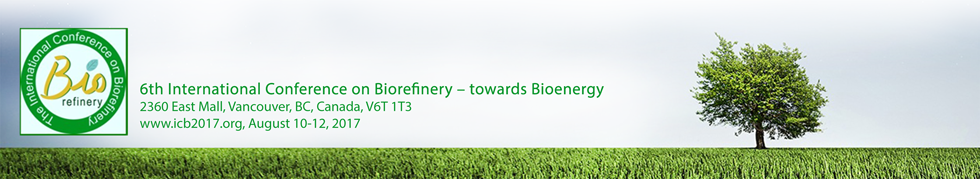
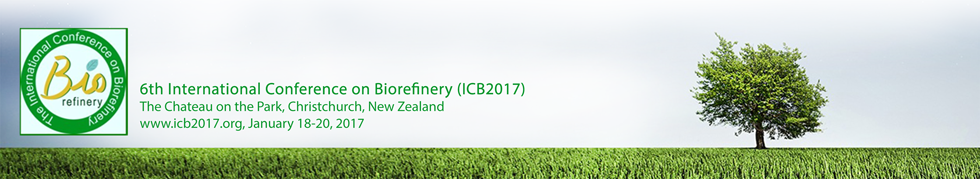
modify part pages

Changed region(s): [[0.1224, 0.5587, 0.4592, 0.7263], [0.4592, 0.4469, 0.6122, 0.5587]]

diff --git a/Application/Home/View/Index/scientific.html b/Application/Home/View/Index/scientific.html
@@ -1,0 +1,85 @@
+<!DOCTYPE html>
+<html>
+
+	<include file="./Application/Home/View/Public/common/head.html" />
+
+	<body>
+		<div id="wrapper">
+			<div id="header">
+				
+			</div>
+			<div id="main">
+				<div id="left">
+					<include file="./Application/Home/View/Public/common/menu.html" />
+				</div>
+				<div id="right">
+					<div class="content">
+						<h3>SCIENTIFIC COMMITTEE</h3>
+							<ul>
+								<li><b>Franco Berruti</b> – Western University, Canada</li>
+								<li><b>Margaret L Britz</b> – Queensland University of Technology, Australia</li>
+								<li><b>Zhuan Cao</b> – Tsinghua University, China</li>
+								<li><b>Jamal Chaouki</b> – Ecole Polytechnique de Montreal, Canada</li>
+							
+								<li><b>Hanping Chen</b> – Huazhong University of Science & Technology, China</li>
+								<li><b>Shulin Chen</b> – Washington State University, USA</li>
+								<li><b>Rupert Craggs</b> – National Institute of Water and Atmospheric Research (NIWA), Hamilton, New Zealand</li>
+								<li><b>Yusuf Chisti</b> – Massey University, New Zealand</li>
+								<li><b>Ajay Dalai</b> – University of saskatchewan, Canada</li>
+								<li><b>Michael K. Danquah</b> – Curtin University Sarawak, Malaysia</li>
+								<li><b>John R. Grace</b> – University of British Columbia</li>
+								<li><b>Sai Gu</b> – Cranfield University, UK</li>
+								<li><b>Jan Christer Janson</b> – Uppsala University, Sweden</li>
+								<li><b>Brian Cox</b> – Bioenergy Association New Zealand (BANZ), New Zealand</li>
+								<li><b>Mohammed Farid</b> – University of Auckland, Auckland, New Zealand</li>
+								<li><b>Lixin Huang</b> – Institute of Chemical Industry of Forest Products, China Academy of Forestry, Nanjing, China</li>
+								<li><b>Yifan Han</b> – Zhengzhou University, Zhengzhou, China</li>
+								<li><b>Jianchun Jiang</b> – Institute of Chemical Industry of Forest Products, China Academy of Forestry, Nanjing, China</li>
+								<li><b>Nirmal Joshee</b> – Fort Valley State University, USA</li>
+								<li><b>Yoon Mo Koo</b> – Inha University, Korea</li>
+								<li><b>Robert Legros</b> – Ecole Polytechnique de Montreal, Canada</li>
+								<li><b>Bin Liang</b> – Sichuan University, China</li>
+								<li><b>Tana Levi</b> – CRL Energy Ltd., Lower Hutt, Wellington, New Zealand</li>
+								<li><b>Gang Li</b> – Hebei University of Technology, Tianjin, China</li>
+								<li><b>Lu Lin</b> – Xiamen University, China</li>
+								<li><b>Longlong Ma</b> – Guangzhou Institute of Energy Conversion, Chinese Academy of Sciences, China)</li>
+								<li><b>Yanhe Ma</b> – Institute of Microbiology, Chinese Academy of Sciences, China</li>
+								<li><b>Murray McCurdy</b> – CRL Energy Ltd., Lower Hutt, Wellington, New Zealand</li>
+								<li><b>Brendon Miller</b> – Jembec Consultant, Christchurch, New Zealand</li>
+								<li><b>Yinbo Qu</b> – Shandong University, China</li>
+								<li><b>Shri Ramaswamy</b> – University of Minnesota, USA</li>
+								<li><b>Wim Soetaert</b> – Ghent University, Belgium</li>
+								<li><b>Runchang Sun</b> – Beijing Forestry University, China</li>
+								<li><b>Zhifa Sun</b> – University of Otago, New Zealand</li>
+								<li><b>Kirk Torr</b> – Scion Research, Rotorua, New Zealand</li>
+								<li><b>Noritatsu Tsubaki</b> – Noritatsu Tsubaki</li>
+								<li><b>Rien Visser</b> – University of Canterbury, New Zealand</li>
+								<li><b>Kurt Wagemann</b> – DECHEMA e. V., Germany</li>
+								<li><b>Chihwa Wang</b> – National University of Singapore, Singapore</li>
+								<li><b>Mengjie Wang</b> – Chinese Academy of Agriculture Engineering, China</li>
+								<li><b>Mo Xian</b> – Qingdao Institute of Biomass Energy and Biomaterials, China Academy of Science, Qingdao, China</li>
+								<li><b>Rui Xiao</b> – Southeast University, China</li>
+								<li><b>Charles Xu</b> – University of Western Ontario, Ontario, Canada</li>
+								<li><b>Guangwen Xu</b> – Institute of Process Engineering, Chinese Academy of Sciences, China</li>
+								<li><b>Xuebing Xu</b> – Technical University of Denmark, Denmark</li>
+								<li><b>Shangtian Yang</b> – Ohio State University, USA</li>
+								<li><b>Hao Ying</b> – Institute of Chemical Industry of Forest Products, China Academy of Forestry, Nanjing, China</li>
+								<li><b>Alex Yip</b> – University of Canterbury, New Zealand</li>
+								<li><b>Yingjin Yuan</b> – Tianjing University, China</li>
+								<li><b>Ruihong Zhang</b> – University of California, Davis, USA</li>
+								<li><b>Ruiqin Zhang</b> – Zhengzhou University, Zhengzhou, China</li>
+								<li><b>Xueming Zhao</b> – University of Illinois, USA</li>
+								<li><b>Ying Zheng</b> – University of New Brunswick, Canada</li>
+								<li><b>Junyong Zhu</b> – Forest Products Lab, USA</li>
+							</ul>
+					</div>
+				</div>
+			</div>
+			<div id="footer">
+				
+			</div>
+		</div>
+		<include file="./Application/Home/View/Public/common/script.html" />
+	</body>
+
+</html>

diff --git a/Application/Home/View/Index/organizing.html b/Application/Home/View/Index/organizing.html
@@ -1,0 +1,59 @@
+<!DOCTYPE html>
+<html>
+
+	<include file="./Application/Home/View/Public/common/head.html" />
+
+	<body>
+		<div id="wrapper">
+			<div id="header">
+				
+			</div>
+			<div id="main">
+				<div id="left">
+					<include file="./Application/Home/View/Public/common/menu.html" />
+				</div>
+				<div id="right">
+					<div class="content">
+						<h3>ORGANIZING COMMITTEE</h3>
+						<h4>Chairmen</h4>
+							<ul>
+								<li><b>Shusheng Pang</b> – University of Canterbury, New Zealand</li>
+								<li><b>Jason Zhang</b> – University of Ottawa, Canada</li>
+								<li><b>Xu Zhang</b> – Beijing University of Chemical Technology, China</li>
+							</ul>
+						<h4>Members</h4>
+							<ul>
+								<li><b>Stefan Kaluza</b> – Fraunhofer Institute, Germany</li>
+								<li><b>Chang Soo Kim</b> – Korea Institute of Science and Technology, Korea</li>
+								<li><b>Guangqing Liu</b> – Beijing University of Chemical Technologies, China</li>
+								<li><b>Shijie Liu</b> – State University of New York ESF, USA</li>
+								<li><b>Atsushi Tsutsumi</b> – University of Tokyo, Japan</li>
+								<li><b>Xu Zhang</b> – Beijing University of Chemical Technologies, China</li>
+								<li><b>Yip Alex</b> – University of Canterbury, New Zealand</li>
+								<li><b>Matt Watson</b> – University of Canterbury, New Zealand</li>
+								<li><b>Aaron Marshall</b> – University of Canterbury, New Zealand</li>
+								<li><b>Gabriel Visnovsky</b> – University of Canterbury, New Zealand</li>
+							</ul>
+						<h4>Secretariats</h4>
+							<ul>
+								<li><b>Jingge Li</b> – University of Canterbury, New Zealand</li>
+								<li><b>Ranee Hearst</b> – University of Canterbury, New Zealand</li>
+								<li><b>Holly Hutt</b> – University of Canterbury, New Zealand</li>
+								<li><b>Yanjie Wang</b> – University of Canterbury, New Zealand</li>
+								<li><b>Simon Zhang</b> – University of Canterbury, New Zealand</li>
+								<li><b>Xin Xing</b> – University of Canterbury, New Zealand</li>
+								<li><b>Cheng Li</b> – University of Canterbury, New Zealand</li>
+								<li><b>Gaetano Dedual</b> – University of Canterbury, New Zealand</li>
+								<li><b>Fazly Abdul Patah</b> – University of Canterbury, New Zealand</li>
+							</ul>
+					</div>
+				</div>
+			</div>
+			<div id="footer">
+				
+			</div>
+		</div>
+		<include file="./Application/Home/View/Public/common/script.html" />
+	</body>
+
+</html>

diff --git a/Application/Home/View/Index/advisory.html b/Application/Home/View/Index/advisory.html
@@ -1,0 +1,53 @@
+<!DOCTYPE html>
+<html>
+
+	<include file="./Application/Home/View/Public/common/head.html" />
+
+	<body>
+		<div id="wrapper">
+			<div id="header">
+				
+			</div>
+			<div id="main">
+				<div id="left">
+					<include file="./Application/Home/View/Public/common/menu.html" />
+				</div>
+				<div id="right">
+					<div class="content">
+						<h3>SPEAKERS AND SESSION CHAIRS AT ICB-6</h3>
+						<h4>Chairmen</h4>
+							<ul>
+								<li><b>Xianghong Cao</b> – China Petrochemical Corporation, China</li>
+								<li><b>Murray Moo-Young</b> – University of Waterloo, Canada</li>
+							</ul>
+						<h4>Committee Members</h4>
+							<ul>
+								<li><b>Foster Agblevor</b> – Utah State University, USA</li>
+								<li><b>Thomas E. Amidon</b> – State University of New York ESF, USA</li>
+								<li><b>Emiel J.M. Hensen</b> – Eindhoven University of Technology, Netherlands</li>
+								<li><b>Martin A. Hubbe</b> – North Carolina State University, USA</li>
+								<li><b>James Liao</b> – University of California, Los Angeles, USA</li>
+								<li><b>Rafael Luque</b> – Universidad de Cordoba, Spain</li>
+								<li><b>Martin Mittelbach</b> – Graiz University, Austria</li>
+								<li><b>Jens Nielsen</b> – Technical University of Denmark, Denmark</li>
+								<li><b>Pingkai Ouyang</b> – Nanjing University of Technology, China</li>
+								<li><b>Richard Parnas</b> – University of Connecticut, USA</li>
+								<li><b>Bandaru V. Ramarao</b> – State University of New York ESF, Syracuse, USA</li>
+								<li><b>Rolf D. Schmid</b> – University of Stuttgart, Germany</li>
+								<li><b>Takashi Watanabe</b> – Kyoto University, Japan</li>
+								<li><b>George Hooper</b> – Mainstone Engineering Consultant, New Zealand</li>
+								<li><b>Peter Gostomski</b> – University of Canterbury, New Zealand</li>
+								<li><b>Dongke Zhang</b> – University of Western Australia, Perth, Australia</li>
+								
+							</ul>
+					</div>
+				</div>
+			</div>
+			<div id="footer">
+				
+			</div>
+		</div>
+		<include file="./Application/Home/View/Public/common/script.html" />
+	</body>
+
+</html>

diff --git a/Application/Home/View/Index/index.html b/Application/Home/View/Index/index.html
@@ -14,14 +14,21 @@
 				</div>
 				<div id="right">
 					<div class="content">
-						<h1>6th International Conference on Biorefinery</h1>
-						<h2>30 – 31 January, 2017<br>Ghent, Belgium</h2>
+						<h1>6th International Conference on Biorefinery (ICB2017) </h1>
+						<h2>The Chateau on the Park, Christchurch, New Zealand</h2>
+						<h2>January 18-20, 2017</h2>
 						<h3>Welcome</h3>
+						<!--
+                        	作者：807729560@163.com
+                        	时间：2016-05-08
+                        	描述：welcome正文内容，暂无
+                        
 						<p>The 12th edition of the International Conference on Renewable Resources & Biorefineries will take place in Ghent, Belgium, from Monday May 30 until Wednesday June 1, 2016.</p>
 						<p>Delegates from university, industry, governmental and non-governmental organizations and venture capital providers will present their views on industrial biotechnology, sustainable (green) chemistry and agricultural policy related to the use of renewable raw materials for non-food applications and energy supply.</p>
 						<p>The conference further aims at providing an overview of the scientific, technical, economic, environmental and social issues of renewable resources and biorefineries in order to give an impetus to the biobased economy and to present new developments in this area. The conference will provide a forum for leading political, corporate, academic and financial people to discuss recent developments and set up collaborations.</p>
 						<p>The three day international conference will consist of plenary lectures and oral presentations by international experts, a poster session and an exhibition. Companies and research organizations are offered the opportunity to organize a satellite symposium.</p>
 						<p>We expect to welcome about 400 international participants from over 30 countries.</p>
+						-->
 					</div>
 				</div>
 			</div>

diff --git a/Application/Home/View/Public/common/menu.html b/Application/Home/View/Public/common/menu.html
@@ -3,10 +3,11 @@
 		<ul id="demo-list">
 		 
 		    <li><a href="index"><i class="fa fa-long-arrow-right"></i>WELCOME</a></li>
-			<li><a href="venue"><i class="fa fa-long-arrow-right"></i>VENUE, GHENT, THE CITY</a></li>
-			<li><a href="committee"><i class="fa fa-long-arrow-right"></i>ICB-6 ORGANIZING COMMITTEE</a></li>
-			<li><a href="board"><i class="fa fa-long-arrow-right"></i>ICB-6 SCIENTIFIC ADVISORY BOARD</a></li>
-			<li><a href="chairs"><i class="fa fa-long-arrow-right"></i>CONFIRMED FACULTY AND CHAIRS</a></li>
+			<li><a href="venue"><i class="fa fa-long-arrow-right"></i>VENUE, CHRISTCHURCH</a></li>
+			<li><a href="chairman"><i class="fa fa-long-arrow-right"></i>CONFERENCE CHAIRMEN</a></li>
+			<li><a href="advisory"><i class="fa fa-long-arrow-right"></i>ADVISORY COMMITTEE</a></li>
+			<li><a href="scientific"><i class="fa fa-long-arrow-right"></i>SCIENTIFIC COMMITTEE</a></li>
+			<li><a href="organizing"><i class="fa fa-long-arrow-right"></i>ORGANIZING COMMITTEE</a></li>
 			<li><a href="abstracts"><i class="fa fa-long-arrow-right"></i>CALL FOR ABSTRACTS</a></li>
 			<li><a href="#"><i class="fa fa-long-arrow-right"></i>PROGRAM</a>
 				<ul class="submenu">

diff --git a/Application/Home/View/Index/chairman.html b/Application/Home/View/Index/chairman.html
@@ -14,13 +14,11 @@
 				</div>
 				<div id="right">
 					<div class="content">
-						<h3>ICB-6 ORGANIZING COMMITTEE</h3>
+						<h3>CONFERENCE CHAIRMEN</h3>
 							<ul>
-								<li><b>Wim Soetaert</b> – Ghent University, Belgium</li>
-								<li><b>Christian Stevens</b> – Ghent University, Belgium</li>
-								<li><b>Philippe Tavernier</b> – Development Agency of West Flanders (POM), Belgium</li>
-								<li><b>Erick Vandamme</b> – Ghent University, Belgium</li>
-								<li><b>Erik Meers</b> – Coordinator Nutrient & Energy Cycling Sessions - Ghent University, Belgium</li>
+								<li><b>Shusheng Pang</b> – University of Canterbury Christchurch, New Zealand</li>
+								<li><b>Tianwei Tan</b> – Beijing University of Chemical Technologies, China</li>
+								<li><b>Jason Zhang</b> – University of Ottawa, Ottawa, Canada</li>
 							</ul>
 					</div>
 				</div>

diff --git a/Application/Home/Controller/IndexController.class.php b/Application/Home/Controller/IndexController.class.php
@@ -12,18 +12,23 @@ class IndexController extends Controller {
     	$this->assign('href',$href);
     	$this->display();
     }
-	public function committee(){
-		$href = "committee";
+	public function chairman(){
+		$href = "chairman";
     	$this->assign('href',$href);
     	$this->display();
     }
-	public function board(){
-		$href = "board";
+	public function advisory(){
+		$href = "advisory";
     	$this->assign('href',$href);
     	$this->display();
     }
-	public function chairs(){
-		$href = "chairs";
+	public function scientific(){
+		$href = "scientific";
+    	$this->assign('href',$href);
+    	$this->display();
+	}
+	public function organizing(){
+		$href = "organizing";
     	$this->assign('href',$href);
     	$this->display();
 	}
